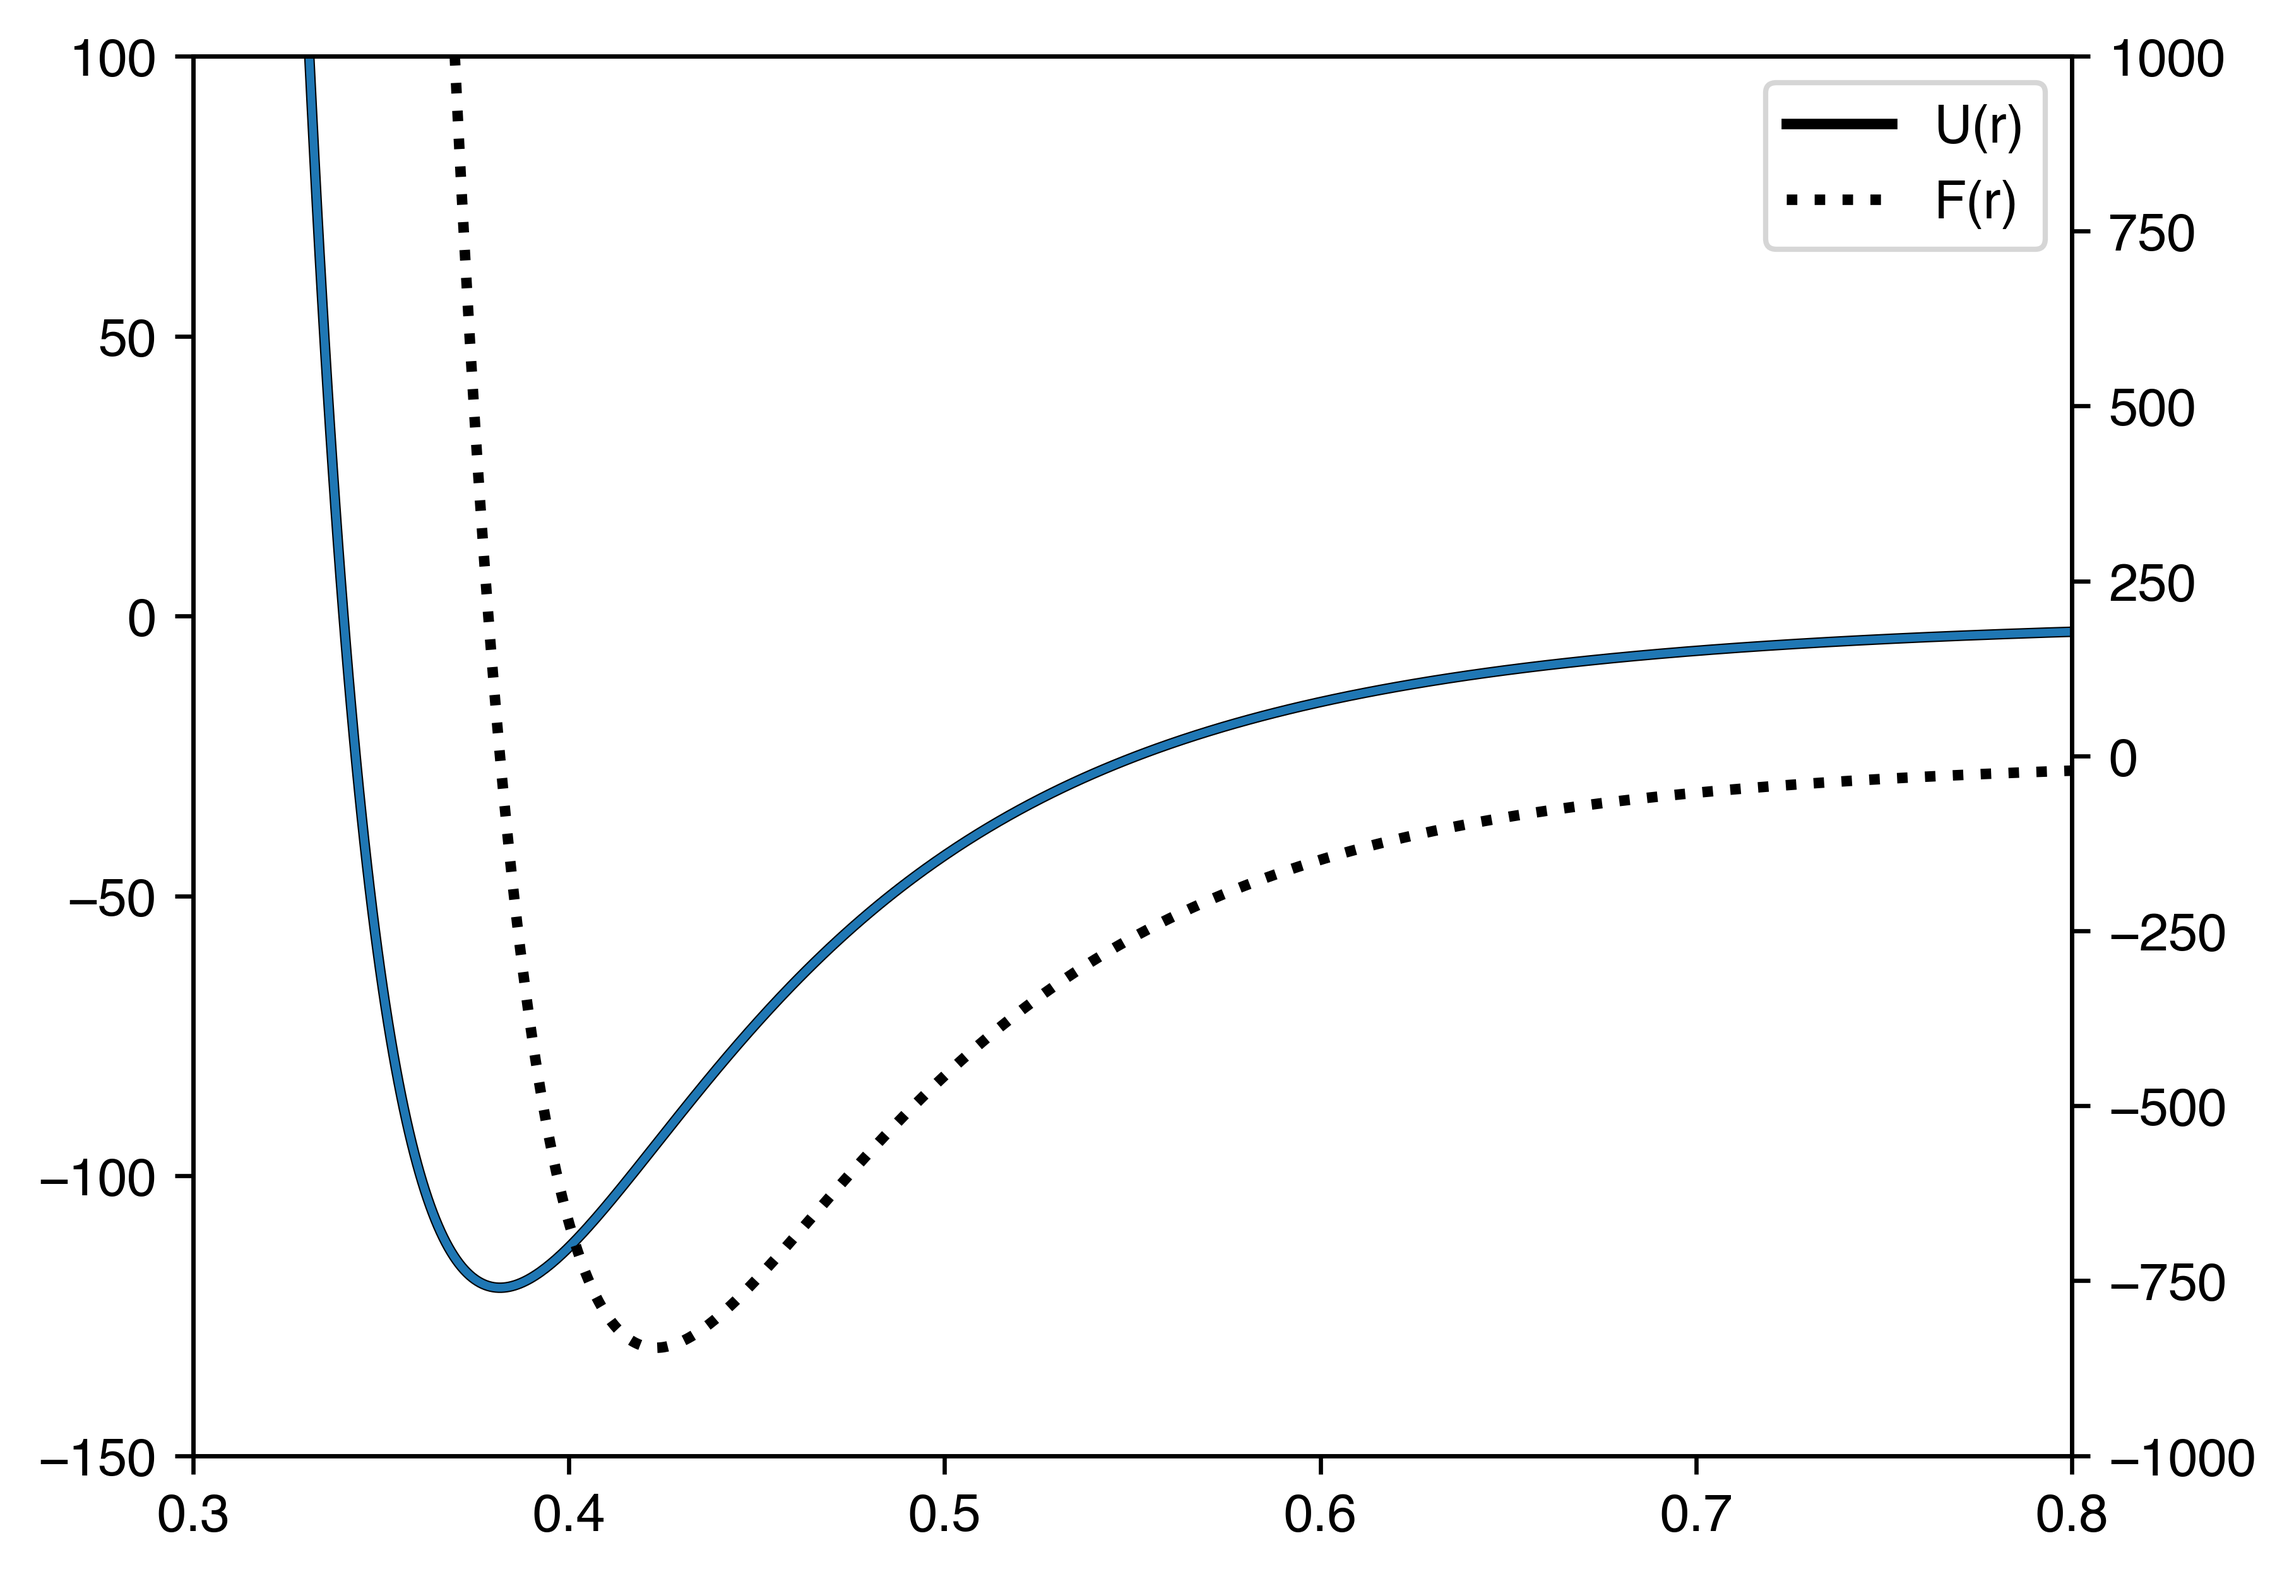
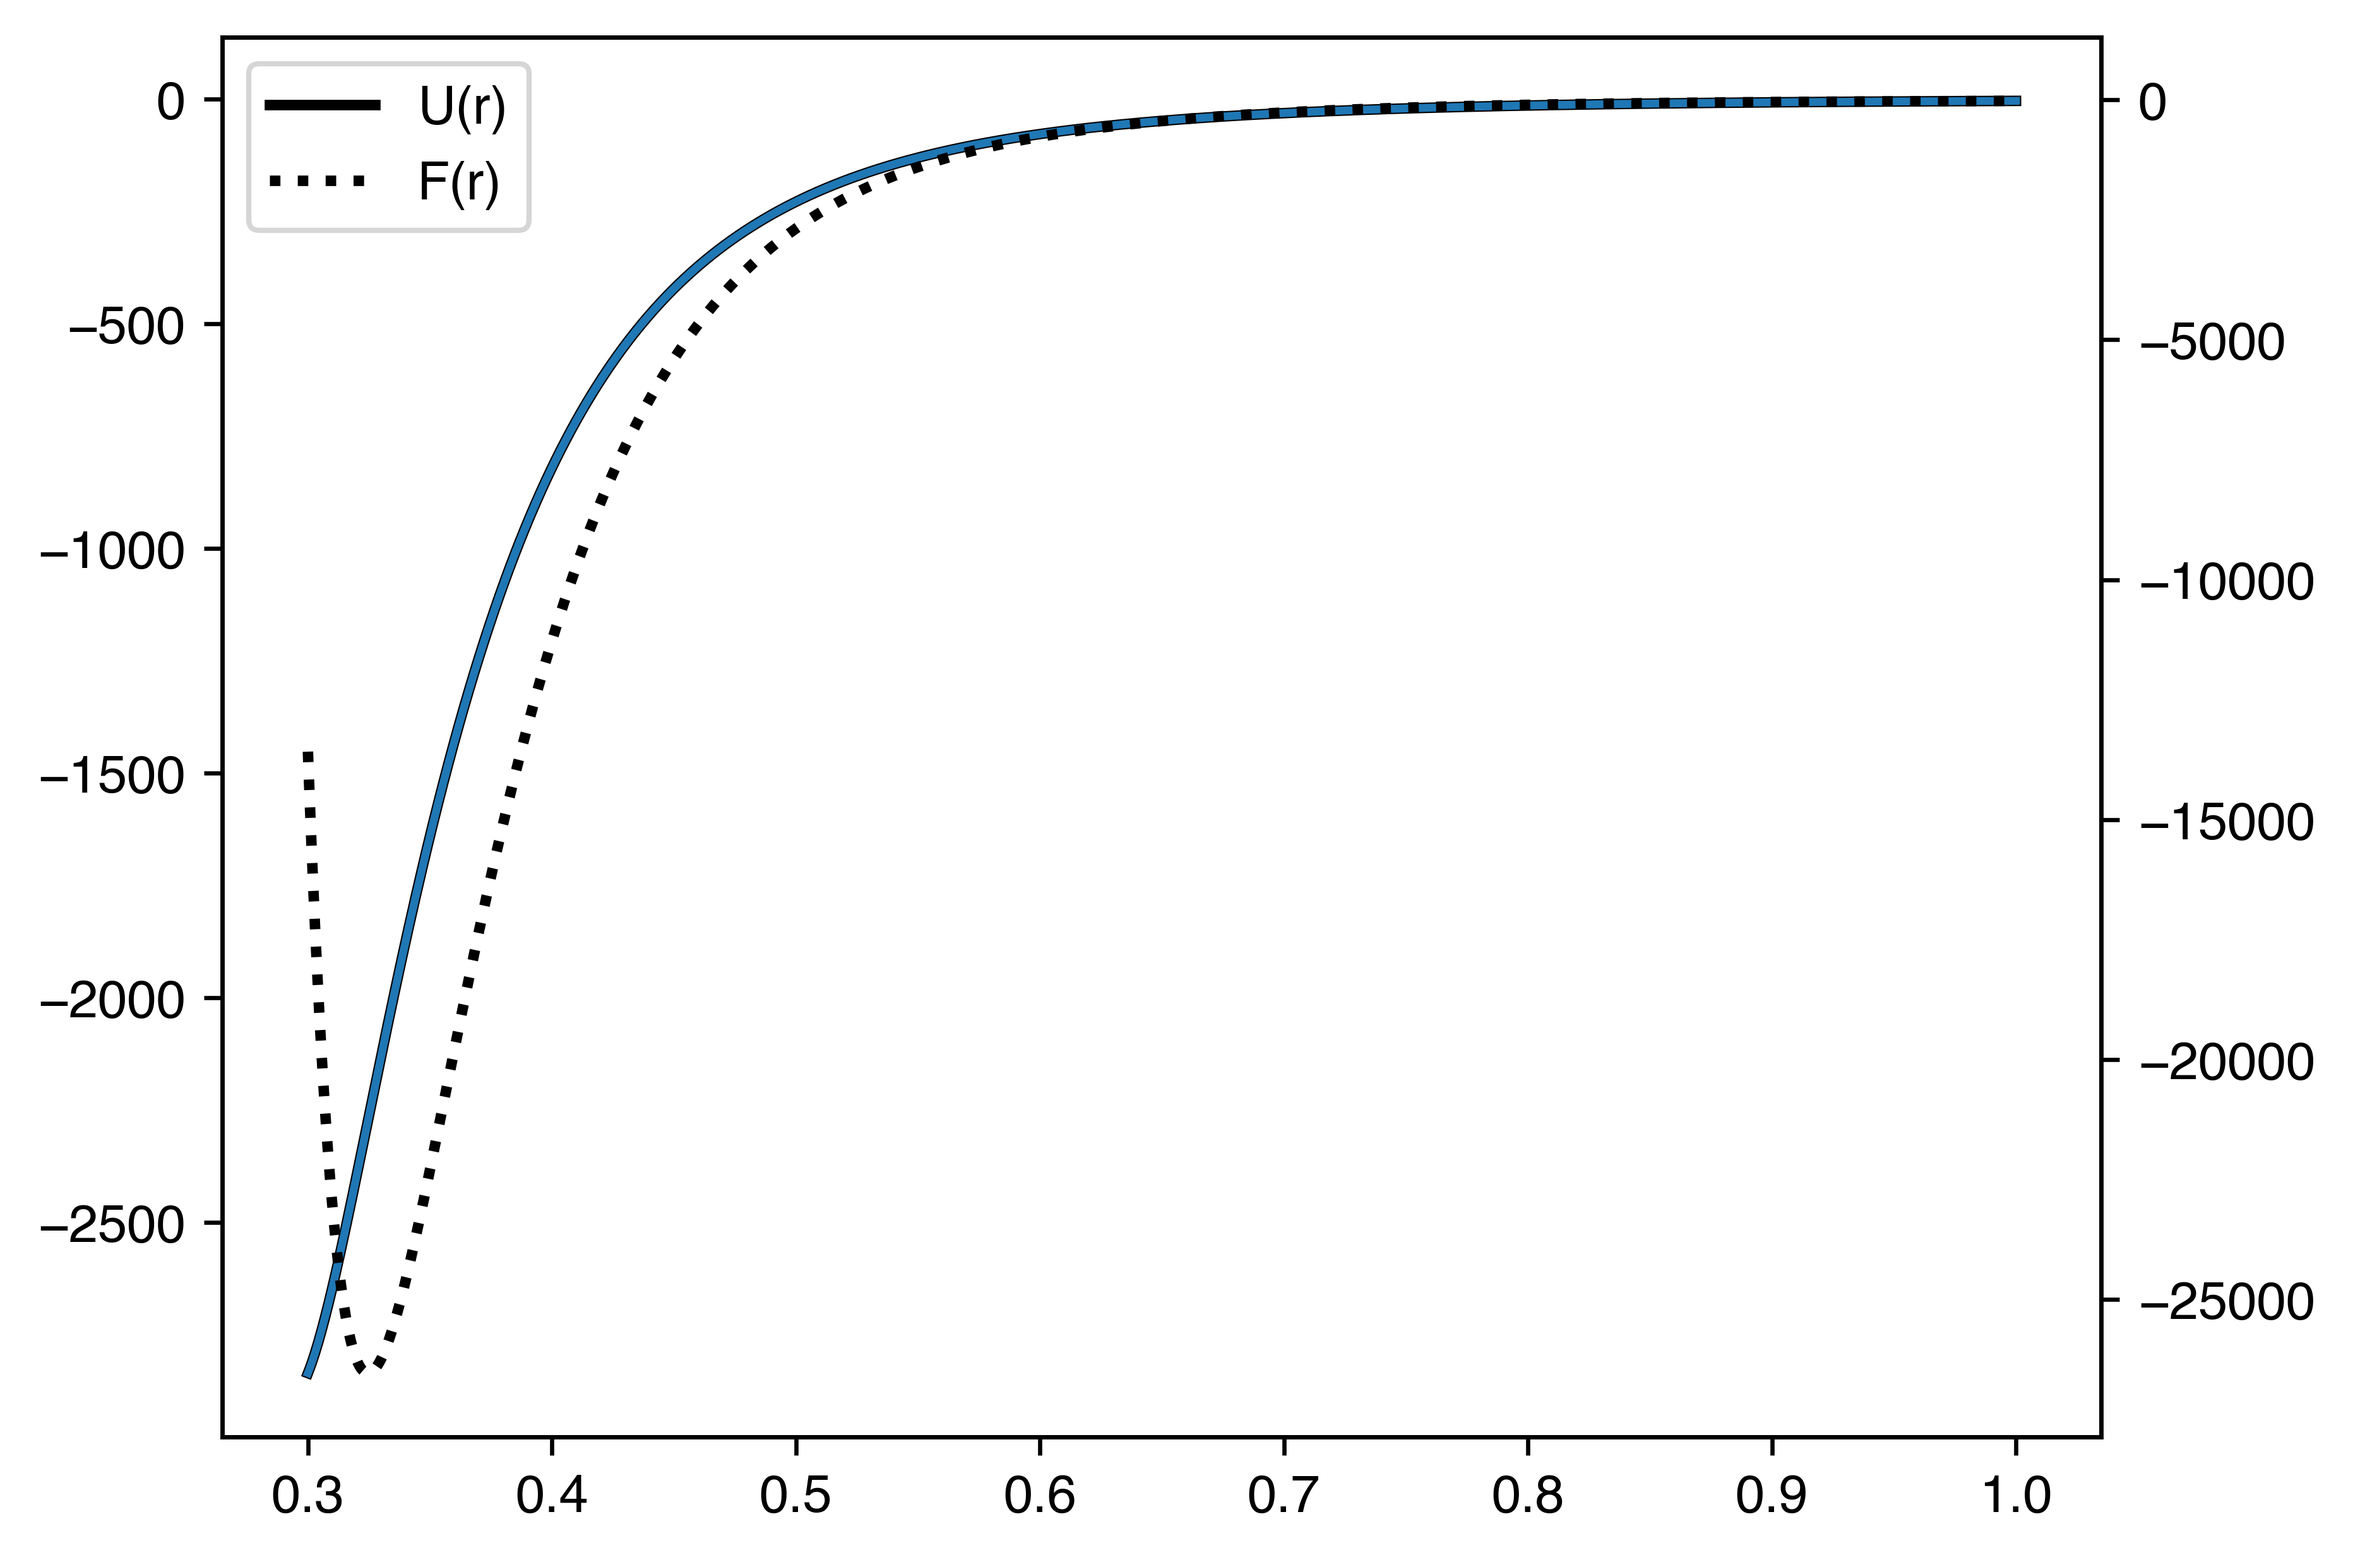
l5 added

diff --git a/l5/lj2.py b/l5/lj2.py
@@ -1,0 +1,49 @@
+import matplotlib.pyplot as plt
+import numpy as np
+fig,ax = plt.subplots() 
+plt.rcParams["axes.labelsize"]=12
+plt.rcParams["xtick.labelsize"]=12
+plt.rcParams["ytick.labelsize"]=12
+plt.rcParams["legend.fontsize"]=12
+
+## Lennard-Jones potentail 
+## Eps,i,j[(Rmin,i,j/ri,j)**12 - 2(Rmin,i,j/ri,j)**6]
+# The Lennard-Jones parameters:
+
+epsilon=   0.12 # Kcal/mol
+r_min_by_2 = 1.367   # Angstrom
+epsilon_o=   0.1521 # Kcal/mol
+r_min_by_2_o = 1.7682   # Angstrom
+
+r = np.linspace(2, 6, 1000)
+# Interatomic potential
+U = epsilon *( (2*(r_min_by_2)/r)**12 - 2*((2*(r_min_by_2)/r)**6) )
+U_o = epsilon_o *( (2*(r_min_by_2_o)/r)**12 - 2*((2*(r_min_by_2_o)/r)**6) )
+# Interatomic force
+F = (12*epsilon/r) *( (2*(r_min_by_2)/r)**12 - ((2*(r_min_by_2)/r)**6) ) 
+F_o = (12*epsilon_o/r) *( (2*(r_min_by_2_o)/r)**12 - ((2*(r_min_by_2_o)/r)**6) ) 
+
+line1 = plt.plot(r, U, 'k', lw=2, label=r'U(r) (O)')
+line3 = plt.plot(r, U_o, color='red', lw=2, label=r'U(r) (Ca)')
+plt.xlim(2.2, 6)
+plt.ylim(-0.16, 0.8)
+ax.set_ylabel("Energy ($\mathrm{kcal/mol}$)",fontsize=12)
+plt.grid(linestyle="--")
+ax2=plt.twinx()
+line2 = plt.plot(r, F, 'k', ls=':', lw=2, label=r'F(r) (O)')
+line4 = plt.plot(r, F_o, color='red',ls=':', lw=2, label=r'F(r) (Ca)')
+plt.xlim(2.2,6)
+plt.ylim(-0.2, 0.3)
+ax.set_xlabel("Interatomic distance ($\mathrm{\AA}$)",fontsize=12)
+ax2.set_ylabel( "Force ($\mathrm{kcal/mol/\AA}$)",fontsize=12)
+
+
+# Jump through some hoops to get the both line's labels in the same legend:
+
+lines = line1 + line2 + line3 + line4
+labels = []
+for line in lines:
+    labels.append(line.get_label())
+plt.legend(lines, labels)
+fig.savefig('LJ.png', format='png',bbox_inches='tight',dpi=600)
+

diff --git a/l5/lj.py b/l5/lj.py
@@ -1,0 +1,43 @@
+import matplotlib.pyplot as plt
+import numpy as np
+fig,ax = plt.subplots() 
+plt.rcParams["axes.labelsize"]=12
+plt.rcParams["xtick.labelsize"]=12
+plt.rcParams["ytick.labelsize"]=12
+plt.rcParams["legend.fontsize"]=12
+
+## Lennard-Jones potentail 
+## Eps,i,j[(Rmin,i,j/ri,j)**12 - 2(Rmin,i,j/ri,j)**6]
+# The Lennard-Jones parameters:
+
+epsilon=   0.10 # Kcal/mol
+r_min_by_2 = 1.9000   # J.nm^12
+
+r = np.linspace(3, 6, 1000)
+# Interatomic potential
+U = epsilon *( (2*(r_min_by_2)/r)**12 - 2*((2*(r_min_by_2)/r)**6) )
+# Interatomic force
+F = (12*epsilon/r) *( (2*(r_min_by_2)/r)**12 - ((2*(r_min_by_2)/r)**6) ) 
+
+line1 = plt.plot(r, U, 'k', lw=2, label=r'U(r)')
+plt.xlim(3, 6)
+plt.ylim(-0.12, 0.8)
+ax.set_ylabel("Energy ($\mathrm{kcal/mol}$)",fontsize=12)
+plt.grid(linestyle="--")
+ax2=plt.twinx()
+line2 = plt.plot(r, F, 'k', ls=':', lw=2, label=r'F(r)')
+plt.xlim(3,6)
+plt.ylim(-0.2, 0.3)
+ax.set_xlabel("Interatomic distance ($\mathrm{\AA}$)",fontsize=12)
+ax2.set_ylabel( "Force ($\mathrm{kcal/mol/\AA}$)",fontsize=12)
+
+
+# Jump through some hoops to get the both line's labels in the same legend:
+
+lines = line1 + line2
+labels = []
+for line in lines:
+    labels.append(line.get_label())
+plt.legend(lines, labels)
+fig.savefig('LJ.png', format='png',bbox_inches='tight',dpi=600)
+

diff --git a/l4/lj.py b/l4/lj.py
@@ -5,7 +5,7 @@ fig,ax = plt.subplots()
 kB = 1.381e-23
 
 # The Lennard-Jones parameters:
-A = 1.024e-23   # J.nm^6
+A = 5.024e-23   # J.nm^6
 B = 1.582e-26   # J.nm^12
 
 # Adjust the units of A and B - they have more manageable values
@@ -20,13 +20,13 @@ U = B/r**12 - A/r**6
 F = 12*B/r**13 - 6*A/r**7
 
 line1 = plt.plot(r, U, 'k', lw=2, label=r'U(r)')
-plt.xlim(0.3, 0.8)
-plt.ylim(-150, 100)
+#plt.xlim(0.3, 0.8)
+#plt.ylim(-150, 100)
 
 plt.twinx()
 line2 = plt.plot(r, F, 'k', ls=':', lw=2, label=r'F(r)')
-plt.xlim(0.3, 0.8)
-plt.ylim(-1000, 1000)
+#plt.xlim(0.3, 0.8)
+#plt.ylim(-1000, 1000)
 
 # Jump through some hoops to get the both line's labels in the same legend:
 lines = line1 + line2
